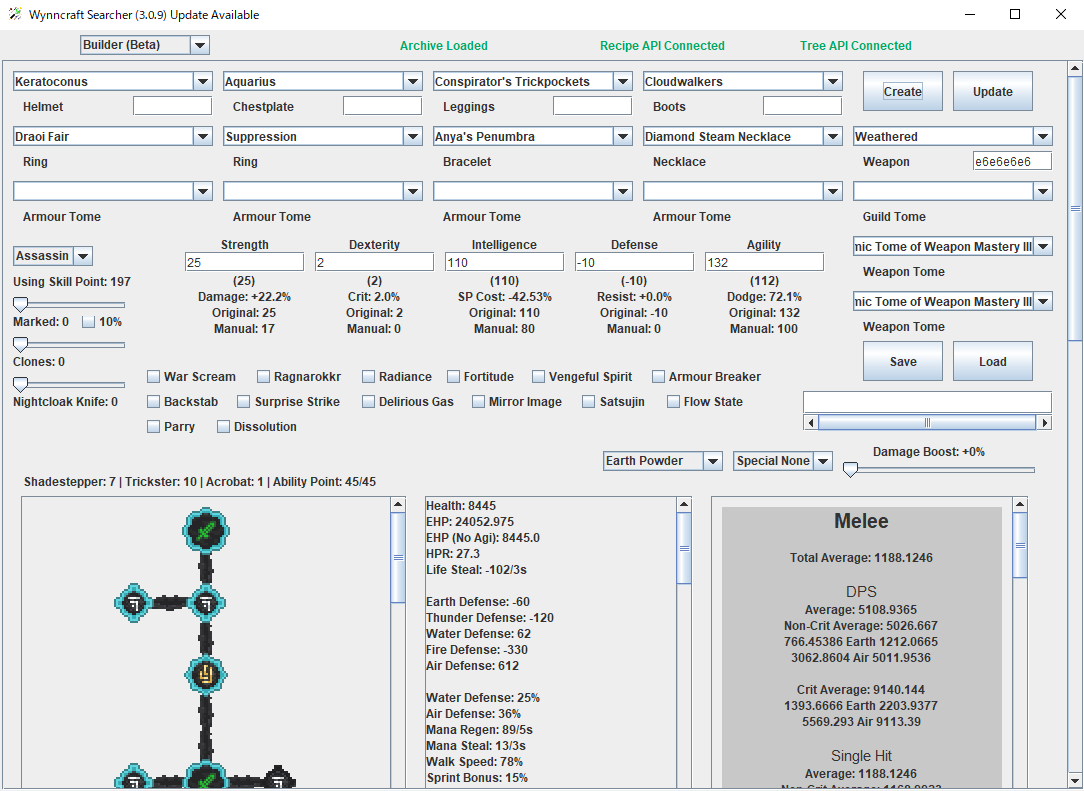
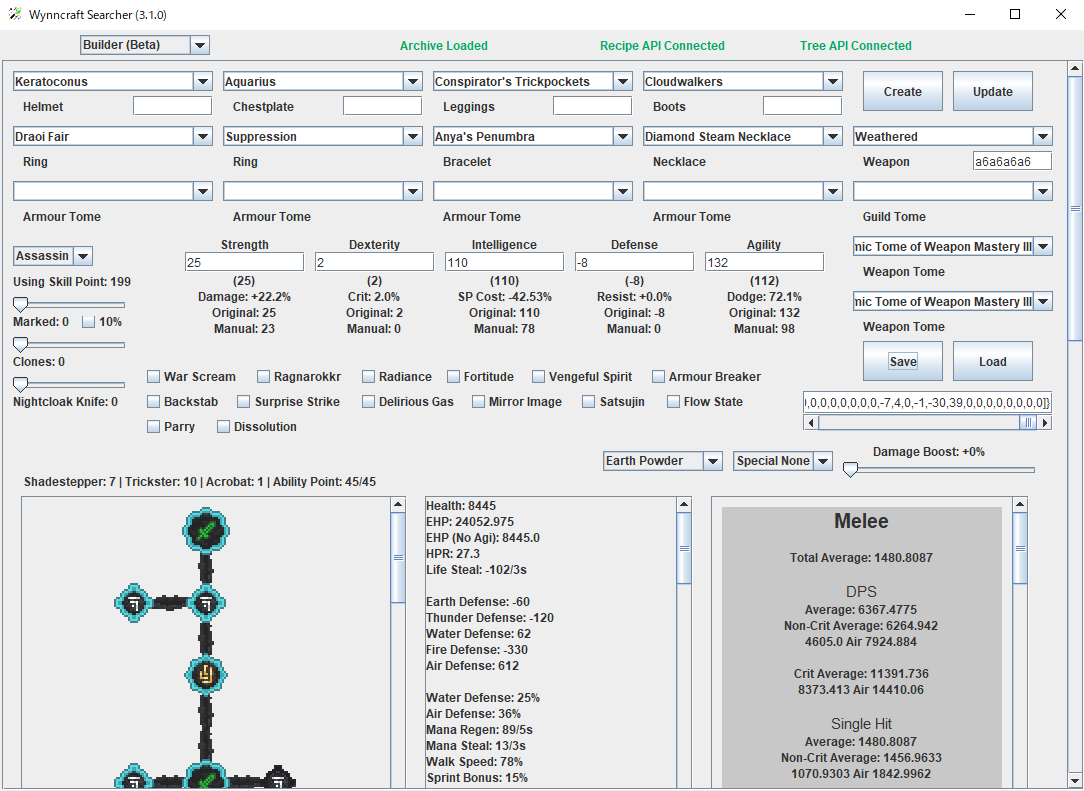
fixes skill point

diff --git a/src/main/java/com/github/iTzhsnu/WynnSearcher/builder/SkillPoint.java b/src/main/java/com/github/iTzhsnu/WynnSearcher/builder/SkillPoint.java
@@ -471,20 +471,20 @@ public class SkillPoint {
 
             //Intelligence
             if (j.get(Identifications.INTELLIGENCE.getItemName()) != null) {
-                originalSP[0] += j.get(Identifications.INTELLIGENCE.getItemName()).getAsInt();
-                totalSP[0] += j.get(Identifications.INTELLIGENCE.getItemName()).getAsInt();
+                originalSP[2] += j.get(Identifications.INTELLIGENCE.getItemName()).getAsInt();
+                totalSP[2] += j.get(Identifications.INTELLIGENCE.getItemName()).getAsInt();
             }
 
             //Defense
             if (j.get(Identifications.DEFENSE.getItemName()) != null) {
-                originalSP[0] += j.get(Identifications.DEFENSE.getItemName()).getAsInt();
-                totalSP[0] += j.get(Identifications.DEFENSE.getItemName()).getAsInt();
+                originalSP[3] += j.get(Identifications.DEFENSE.getItemName()).getAsInt();
+                totalSP[3] += j.get(Identifications.DEFENSE.getItemName()).getAsInt();
             }
 
             //Agility
             if (j.get(Identifications.AGILITY.getItemName()) != null) {
-                originalSP[0] += j.get(Identifications.AGILITY.getItemName()).getAsInt();
-                totalSP[0] += j.get(Identifications.AGILITY.getItemName()).getAsInt();
+                originalSP[4] += j.get(Identifications.AGILITY.getItemName()).getAsInt();
+                totalSP[4] += j.get(Identifications.AGILITY.getItemName()).getAsInt();
             }
         }
     }

diff --git a/src/main/java/com/github/iTzhsnu/WynnSearcher/SearchUI.java b/src/main/java/com/github/iTzhsnu/WynnSearcher/SearchUI.java
@@ -13,7 +13,7 @@ import java.util.List;
 import java.util.Objects;
 
 public class SearchUI extends JFrame implements ActionListener {
-    public static final String VERSION = "3.1.0";
+    public static final String VERSION = "3.1.1";
 
     //API
     private final List<JsonObject> wynnItems = new ArrayList<>();
